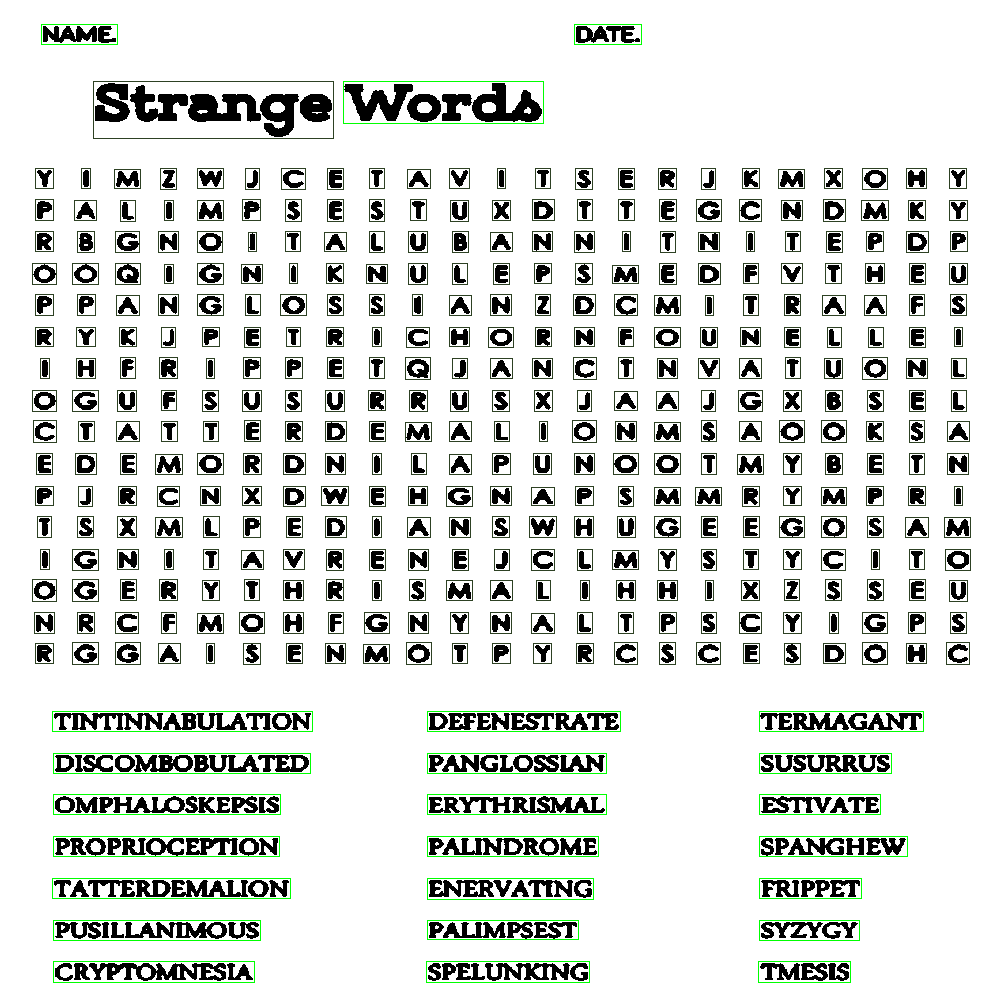
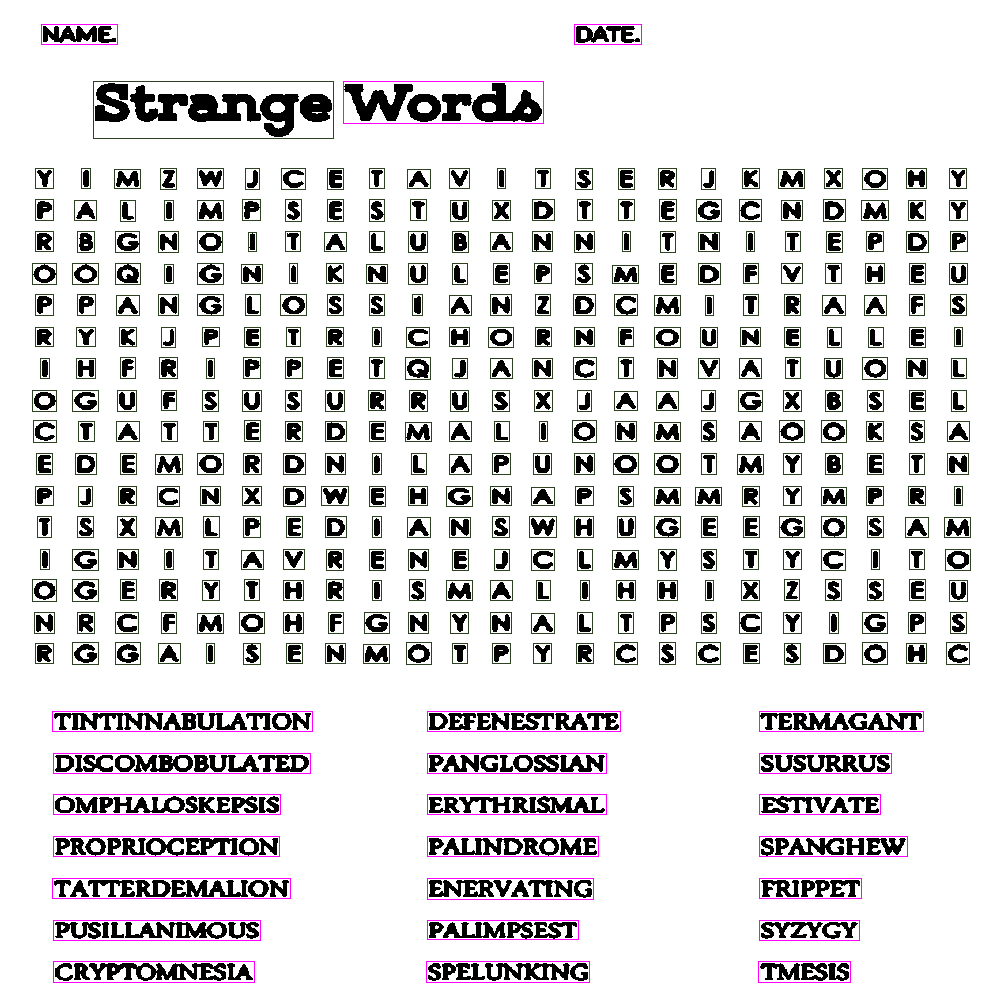
done

diff --git a/src/Image/Detection/cannyParameters.c b/src/Image/Detection/cannyParameters.c
@@ -3,61 +3,46 @@
 #include "boxes.h"
 #include "refineImage.h"
 
+int is_from_grid(bBoundingBox *boxes, int numBoxes, bBoundingBox box, int mod) {
 
-
-int is_from_grid(bBoundingBox *boxes, int numBoxes, bBoundingBox box, int mod)
-{
-    
-    if(mod == 1) //width
+    if (mod == 1) // width
     {
         sort(boxes, 1, numBoxes);
-        for(int i = 0; i < numBoxes; i++)
-        {
-            if(boxes[i].height<10 || boxes[i].width<5)
-            continue;
-            if(
-                boxes[i].height > (box.height - (box.height / 4)) &&
+        for (int i = 0; i < numBoxes; i++) {
+            if (boxes[i].height < 10 || boxes[i].width < 5)
+                continue;
+            if (boxes[i].height > (box.height - (box.height / 4)) &&
                 boxes[i].height < (box.height + (box.height / 4)) &&
-                boxes[i].min_y < (box.min_y + (box.height / 3))&&
-                boxes[i].min_y > (box.min_y - (box.height / 3))&&
+                boxes[i].min_y < (box.min_y + (box.height / 3)) &&
+                boxes[i].min_y > (box.min_y - (box.height / 3)) &&
 
                 ((boxes[i].min_x != box.min_x) ||
-                (boxes[i].min_y != box.min_y)) &&
-                (boxes[i].min_x < ((2 * (box.width))+box.max_x) || 
-                boxes[i].max_x > (box.min_x-(2 * (box.width)))))
+                 (boxes[i].min_y != box.min_y)) &&
+                (boxes[i].min_x < ((2 * (box.width)) + box.max_x) ||
+                 boxes[i].max_x > (box.min_x - (2 * (box.width)))))
                 return 1;
         }
-    }
-    else if(mod == 2)//height
+    } else if (mod == 2) // height
     {
-        
-        sort(boxes, 2, numBoxes);
-        for(int i = 0; i < numBoxes; i++)
-        {
-            if(boxes[i].height<10 || boxes[i].width<5)
-            continue;
-            if(boxes[i].width > (box.width - (box.width / 2)) &&
-               boxes[i].width < (box.width + (box.width / 3)) &&
-               boxes[i].min_x > (box.min_x - (box.width / 2)) &&
-               boxes[i].min_x < (box.min_x + (box.width / 3)) &&
-               
 
-               ((boxes[i].min_x != box.min_x) ||
-                (boxes[i].min_y != box.min_y)) &&
-                (boxes[i].max_y > (box.min_y-( 2* (box.height))) || 
-                boxes[i].min_y < (box.max_y+( 2 * (box.height)))))
+        sort(boxes, 2, numBoxes);
+        for (int i = 0; i < numBoxes; i++) {
+            if (boxes[i].height < 10 || boxes[i].width < 5)
+                continue;
+            if (boxes[i].width > (box.width - (box.width / 2)) &&
+                boxes[i].width < (box.width + (box.width / 3)) &&
+                boxes[i].min_x > (box.min_x - (box.width / 2)) &&
+                boxes[i].min_x < (box.min_x + (box.width / 3)) &&
+
+                ((boxes[i].min_x != box.min_x) ||
+                 (boxes[i].min_y != box.min_y)) &&
+                (boxes[i].max_y > (box.min_y - (2 * (box.height))) ||
+                 boxes[i].min_y < (box.max_y + (2 * (box.height)))))
                 return 1;
-            
         }
     }
     return 0;
 }
-
-
-
-
-
-
 
 void find_grid(bBoundingBox *boxes, int num_boxes, iImage *img) {
     double wavrage = compute_median2(boxes, 1, num_boxes);
@@ -71,7 +56,7 @@ void find_grid(bBoundingBox *boxes, int num_boxes, iImage *img) {
     int y_max = 0;
 
     for (int i = 0; i < num_boxes - 1; i++) {
-        if(boxes_inter[i].height<10 || boxes_inter[i].width<5)
+        if (boxes_inter[i].height < 10 || boxes_inter[i].width < 5)
             continue;
         if (boxes_inter[i].surface > (savrage - (savrage / 3)) &&
             boxes_inter[i].surface < (savrage + (savrage / 3)) &&
@@ -80,7 +65,7 @@ void find_grid(bBoundingBox *boxes, int num_boxes, iImage *img) {
             boxes_inter[i].width < (2 * (wavrage)) &&
             boxes_inter[i].width < (wavrage2 + (wavrage2 / 2)) &&
             (is_from_grid(boxes_inter, num_boxes, boxes_inter[i], 1) &&
-            is_from_grid(boxes_inter, num_boxes, boxes_inter[i], 2))){
+             is_from_grid(boxes_inter, num_boxes, boxes_inter[i], 2))) {
             if (boxes_inter[i].max_x > x_max)
                 x_max = boxes_inter[i].max_x;
             if (boxes_inter[i].max_y > y_max)
@@ -90,7 +75,6 @@ void find_grid(bBoundingBox *boxes, int num_boxes, iImage *img) {
             if (boxes_inter[i].min_y < y_min)
                 y_min = boxes_inter[i].min_y;
         }
-        
     }
     cColor red = {255, 0, 0};
 
@@ -126,7 +110,6 @@ void find_word_lists(bBoundingBox *boxes, int num_boxes, iImage *img) {
             if (boxes_inter[i].min_y < y_min)
                 y_min = boxes_inter[i].min_y;
         }
-        
     }
 
     int h = (y_max - (y_min));
@@ -147,11 +130,11 @@ void find_word_lists(bBoundingBox *boxes, int num_boxes, iImage *img) {
     res = realloc(res, index * sizeof(bBoundingBox));
     bBoxSize res2 = {res, index};
 
-    cColor green = {0, 255, 0};
+    cColor pink = {255, 0, 255};
 
     for (int i = 0; i < index; i++) {
-        draw_rectangle(img, res2.boxes[i].min_x, res2.boxes[i].min_y, res2.boxes[i].max_x,
-                       res2.boxes[i].max_y, green);
+        draw_rectangle(img, res2.boxes[i].min_x, res2.boxes[i].min_y,
+                       res2.boxes[i].max_x, res2.boxes[i].max_y, pink);
     }
 }
 
@@ -159,9 +142,9 @@ void find_letters_in_word(bBoundingBox *boxes, int num_boxes, iImage *img) {
     merge_bounding_boxes(boxes, &num_boxes, 0, 0);
     cColor red = {255, 0, 0};
     for (int i = 0; i < num_boxes; i++) {
-            draw_rectangle(img, boxes[i].min_x, boxes[i].min_y, boxes[i].max_x,
-                           boxes[i].max_y, red);
-        }
+        draw_rectangle(img, boxes[i].min_x, boxes[i].min_y, boxes[i].max_x,
+                       boxes[i].max_y, red);
+    }
 }
 
 void find_words_in_words_lists(bBoundingBox *boxes, int num_boxes,

diff --git a/src/Image/Detection/canny.c b/src/Image/Detection/canny.c
@@ -148,8 +148,9 @@ void apply_canny(void (*func)(bBoundingBox *, int, iImage *), iImage *img) {
     merge_bounding_boxes(boxes, &num_boxes, 5, 5);
 
     // function with parameters
-    for(int i = 0; i < num_boxes; i++) {
-        draw_rectangle(img, boxes[i].min_x, boxes[i].min_y, boxes[i].max_x, boxes[i].max_y, (cColor){45, 65, 35});
+    for (int i = 0; i < num_boxes; i++) {
+        draw_rectangle(img, boxes[i].min_x, boxes[i].min_y, boxes[i].max_x,
+                       boxes[i].max_y, (cColor){45, 65, 35});
     }
     func(boxes, num_boxes, img);
 

diff --git a/src/Image/Detection/findBoxes.c b/src/Image/Detection/findBoxes.c
@@ -6,9 +6,6 @@
 
 #include <stdio.h>
 
-
-
-
 bBoundingBox compute_array(bBoundingBox *boxes, int numBoxes) {
 
     double wavrage = compute_median2(boxes, 1, numBoxes);
@@ -62,5 +59,3 @@ bBoxSize compute_word_list(bBoundingBox *boxes, int numBoxes) {
     bBoxSize res2 = {res, index};
     return res2;
 }
-
-

diff --git a/README.md b/README.md
@@ -1,5 +1,5 @@
 # OCR-NOUPI
 S3 Project @EPITA 
 
-Get in src directory and then copy paste this line : 
-clear && make format && ./test
+Place yourself in src directory and then copy paste this line : 
+make && ./noupi
